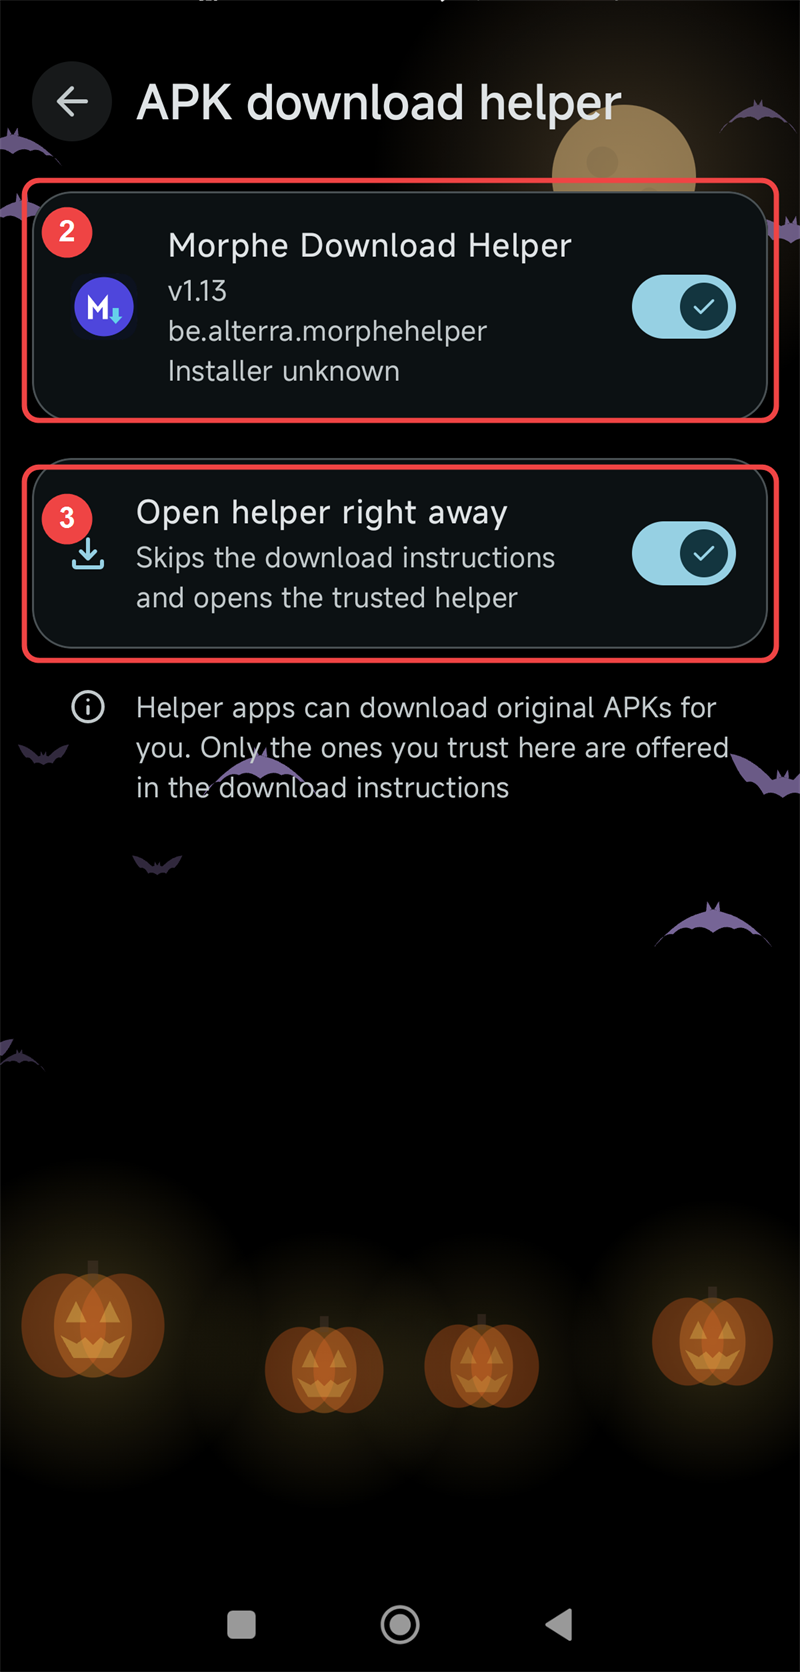
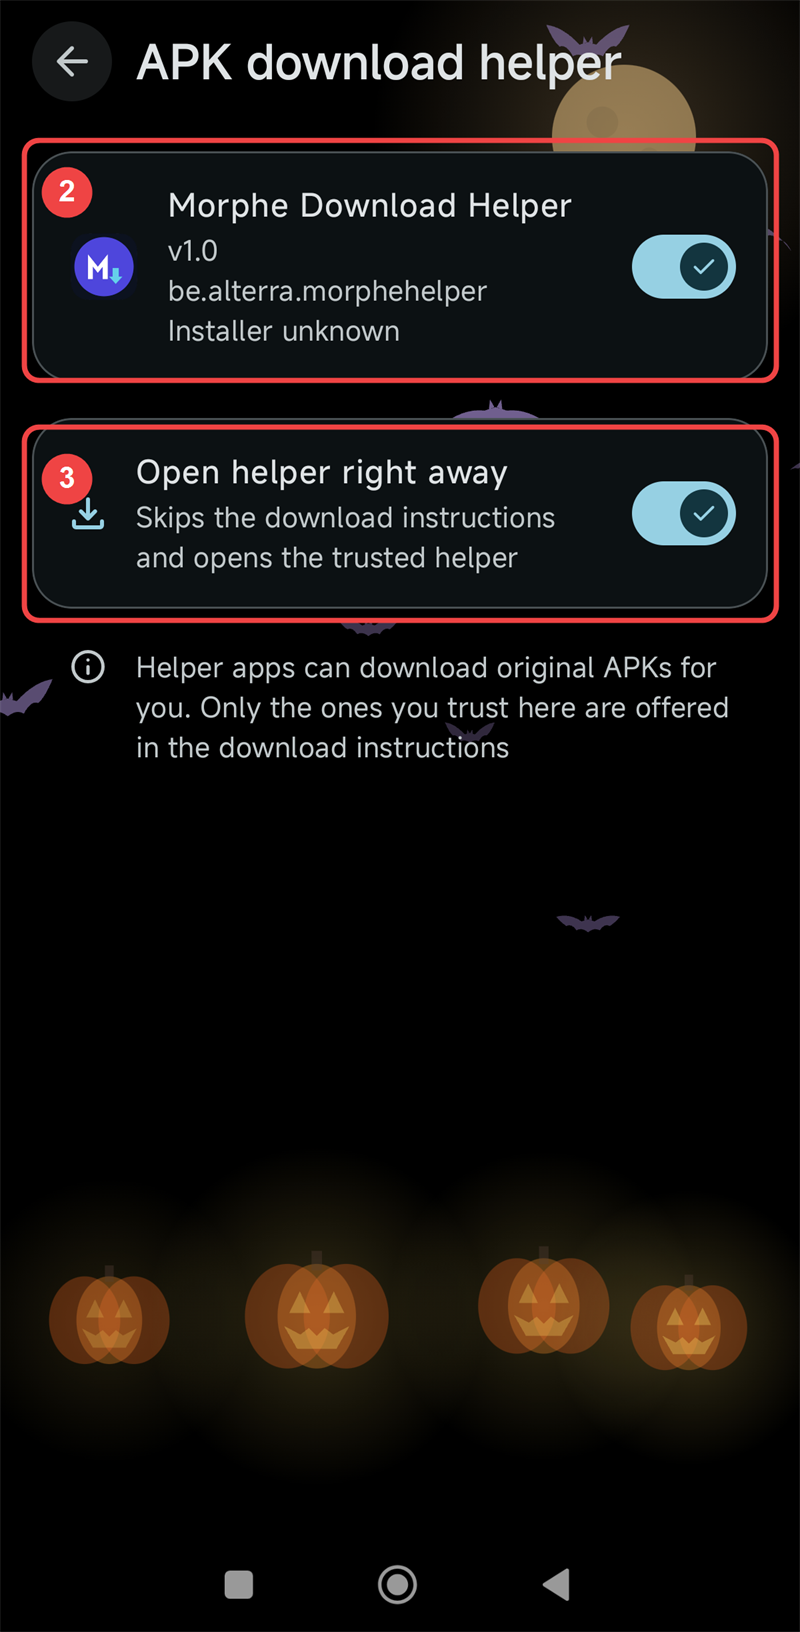
Reset version to 1.0 for first release

diff --git a/CHANGELOG.md b/CHANGELOG.md
@@ -7,51 +7,17 @@ and this project follows a simple `MAJOR.MINOR` version scheme.
 
 ## [Unreleased]
 
-## [1.13] - 2026-10-30
+## [1.0] - 2026-10-30
 
 ### Added
 
-- Download sources card showing the resolution order: Morphe fallback link, APKMirror, APKPure.
-- Clear warning that Uptodown is not supported and that automatic resolution is best-effort.
-- In-app screenshots and a download section in the README.
-- GitHub release with a universal APK for Android 6.0+.
-
-### Changed
-
-- Renamed the app to **Morphe Download Helper** throughout the UI and launcher.
-- Cleaned up and documented the Java sources, manifest, Gradle files, and resources.
-- Added open-source project files: README, MIT license, `.gitignore`, `.gitattributes`,
-  Gradle wrapper, and `local.properties.example`.
-
-### Fixed
-
-- Increased top spacing so the header is not clipped by the status bar.
-- Hid the progress bar when a request fails or has no package name.
-
-## [1.12] - 2026-10-30
-
-### Added
-
-- Amber warning card explaining Uptodown limitations and the Morphe default-button fallback.
-- Warning row with hazard icon on the download screen.
-
-### Changed
-
-- Renamed the launcher label to **Morphe Download Helper**.
-- Switched to a dark app theme to avoid light-theme flashes.
-
-### Fixed
-
-- Added extra top padding so the title clears the status bar.
-
-## [1.11] - 2026-10-30
-
-### Added
-
-- Modern dark UI with gradient background, rounded cards, status chip, and styled buttons.
-- New indigo "M + download arrow" logo and launcher icon.
-
-### Fixed
-
-- Restyled the download screen to match the launcher.
-- Hid the progress bar on error states.
+- First public release of **Morphe Download Helper**.
+- Implements Morphe's `app.morphe.manager.action.DOWNLOAD_ORIGINAL_APK` helper contract.
+- Tries the patch bundle's fallback link first, then APKMirror, then APKPure.
+- Returns a `content://` URI with read permission so Morphe can validate the APK.
+- Dark modern UI with an indigo "M + download arrow" logo and launcher icon.
+- Download sources card showing the resolution order.
+- Clear warnings that Uptodown is unsupported and that automatic resolution is best-effort.
+- Local diagnostic log with **Share log** and **Clear log** actions.
+- Illustrated setup guide for enabling and trusting the helper in Morphe.
+- Universal APK for Android 6.0+ (arm64-v8a, armeabi-v7a, x86, x86_64).

diff --git a/RELEASING.md b/RELEASING.md
@@ -7,7 +7,7 @@ bump.
 ## 1. Choose the version
 
 - If a target version was given, use it.
-- Otherwise bump the minor version: `1.13` → `1.14`.
+- Otherwise bump the minor version: `1.0` → `1.1`.
 - Increment `versionCode` by 1.
 
 ## 2. Update the version
@@ -15,8 +15,8 @@ bump.
 Edit `app/build.gradle`:
 
 ```gradle
-versionCode 15
-versionName "1.14"
+versionCode 2
+versionName "1.1"
 ```
 
 ## 3. Update the changelog
@@ -24,7 +24,7 @@ versionName "1.14"
 Move the relevant items from `## [Unreleased]` in `CHANGELOG.md` into a new section:
 
 ```markdown
-## [1.14] - 2026-10-30
+## [1.1] - 2026-10-30
 ```
 
 Add a short, user-facing summary of what changed.
@@ -48,7 +48,7 @@ armeabi-v7a, x86, and x86_64. Do not create per-ABI APKs.
 
 ```powershell
 git add app/build.gradle CHANGELOG.md
-git commit -m "Release v1.14"
+git commit -m "Release v1.1"
 git push
 ```
 
@@ -58,15 +58,15 @@ Copy the APK to a release-friendly name:
 
 ```powershell
 Copy-Item app/build/outputs/apk/debug/app-debug.apk `
-  "MorpheDownloadHelper-v1.14-universal.apk"
+  "MorpheDownloadHelper-v1.1-universal.apk"
 ```
 
 Create the release, using the new changelog section as the notes:
 
 ```powershell
-gh release create v1.14 "MorpheDownloadHelper-v1.14-universal.apk" `
-  --title "v1.14 - Universal APK" `
-  --notes "Paste the 1.14 changelog section here" `
+gh release create v1.1 "MorpheDownloadHelper-v1.1-universal.apk" `
+  --title "v1.1 - Universal APK" `
+  --notes "Paste the 1.1 changelog section here" `
   --latest
 ```
 
@@ -79,7 +79,7 @@ If `gh` is not on `PATH`, use:
 ## 7. Verify
 
 ```powershell
-gh release view v1.14 --json url,assets
+gh release view v1.1 --json url,assets
 ```
 
 Confirm the release is public and the APK asset is uploaded.

diff --git a/GUIDE.md b/GUIDE.md
@@ -54,7 +54,7 @@ also show its own default download button so you can continue manually.
 | Problem | What to do |
 | --- | --- |
 | The **APK download helper** row is missing | Install/update the helper, then fully close and reopen Morphe. |
-| The helper toggle will not stay on | Confirm the **Trust** prompt. Make sure the helper is version 1.13 or newer. |
+| The helper toggle will not stay on | Confirm the **Trust** prompt. Make sure the latest version is installed. |
 | The helper opens but fails to download | Open the helper and tap **Share log** for details. Uptodown is not supported; APKMirror/APKPure may block automated requests. |
 | Morphe says the helper did not return an APK | Use **Open download page** or Morphe's default download button. |
 | **Installer unknown** is shown | Normal for an APK sideloaded outside the Play Store. |

diff --git a/AGENTS.md b/AGENTS.md
@@ -10,7 +10,7 @@
   3. Build the universal debug APK.
   4. Commit and push the version bump and changelog.
   5. Create a new GitHub release and upload the APK.
-- If no target version is given, increment the minor version (`1.13` → `1.14`) and
+- If no target version is given, increment the minor version (`1.0` → `1.1`) and
   increment `versionCode` by 1.
 - Do not create per-ABI APKs. The app has no native libraries; one universal APK covers all
   supported devices.
